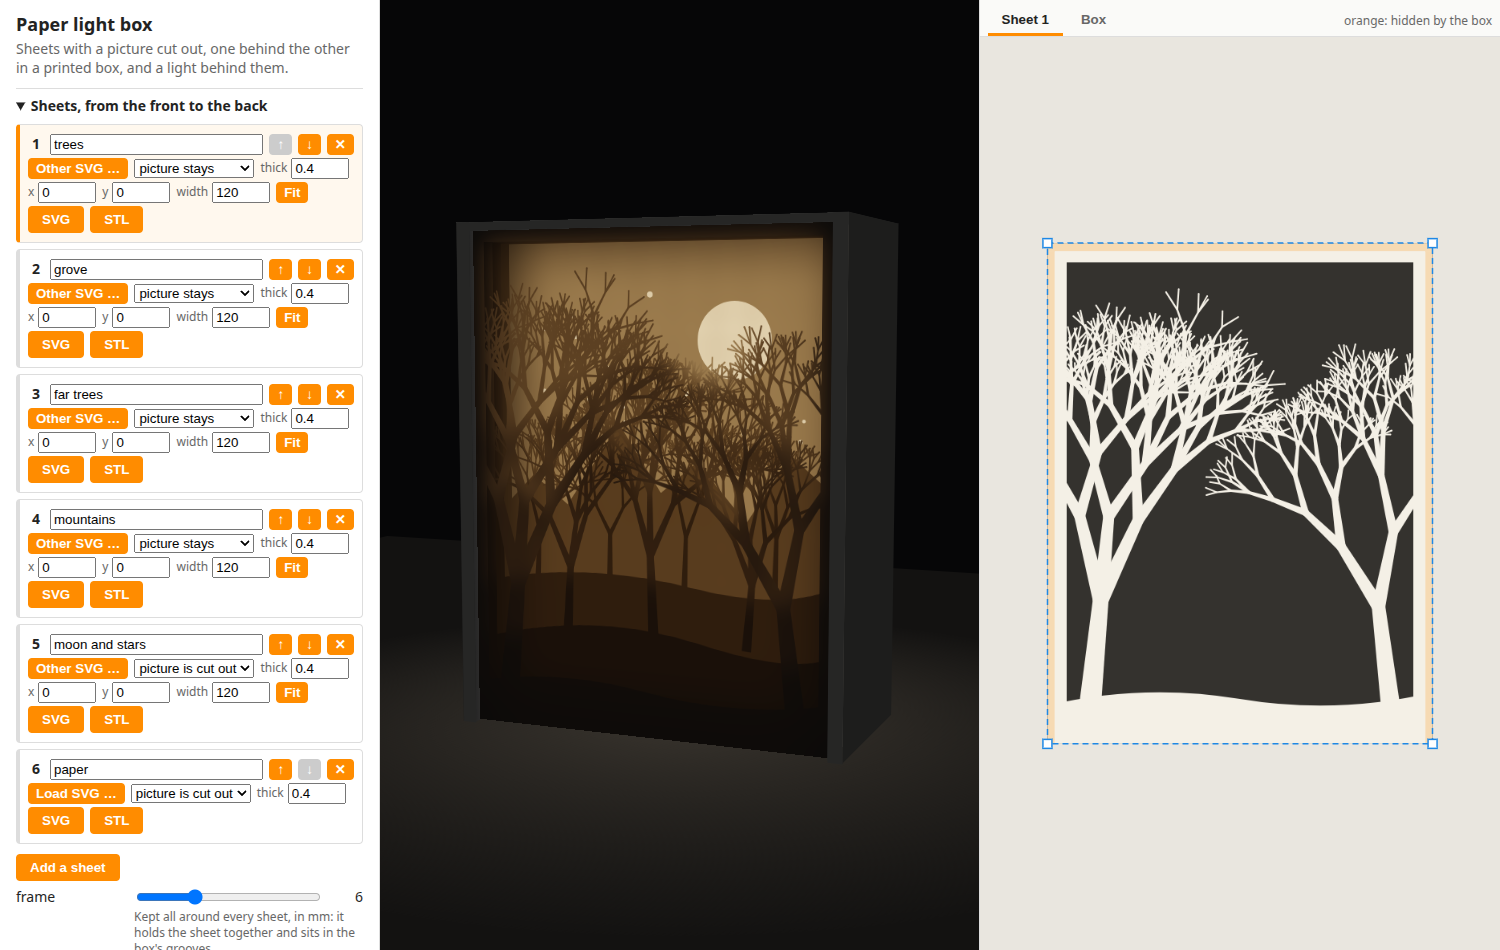
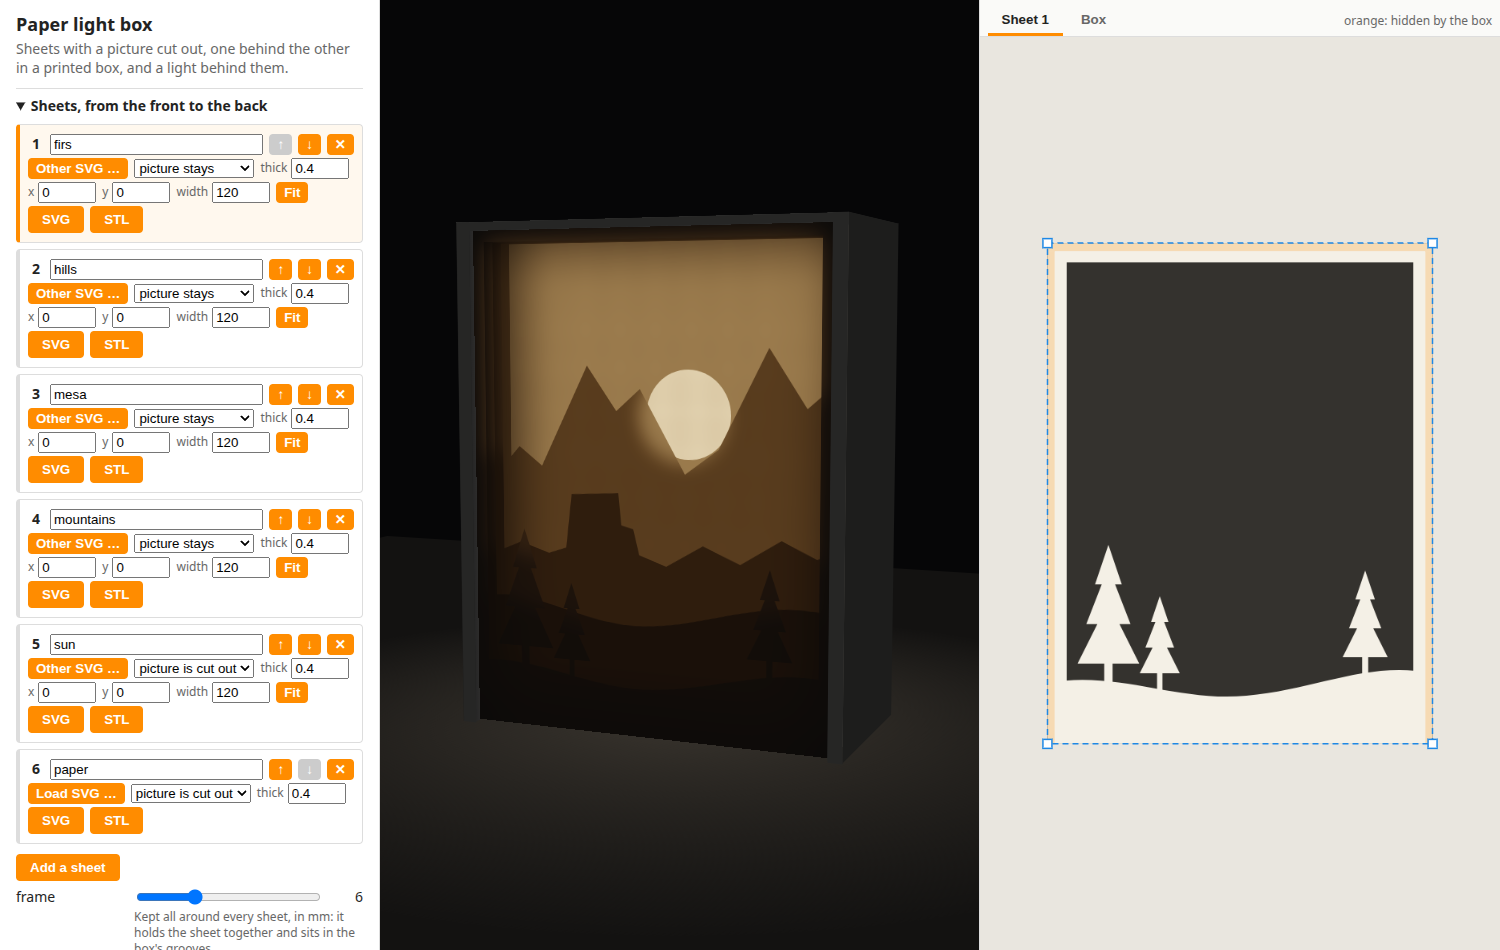
Paper light box webapp: a simpler picture to open with, mountains in front of a low sun instead of the forest of bare trees, after the pictures in inspiration/simple. Six sheets as before, from the front: three firs on a hill, hills, a mesa, mountains, a sun cut out, a plain sheet; each a frame with

diff --git a/projects/paper_light_box/webapp/demo.module.js b/projects/paper_light_box/webapp/demo.module.js
@@ -1,69 +1,40 @@
 // Copyright (C) [Jonas Immanuel Frey] - Licensed under GPL
-// The sheets the app opens with: a small forest drawn here, so that the preview shows
-// something before a picture is loaded. Each is an SVG 120 x 156, black on nothing,
-// as a loaded file would be.
-
-// The same numbers on every start: the forest does not change between two visits.
-let f_f_n__random = function(n_seed){
-    return function(){
-        n_seed = (n_seed * 16807) % 2147483647;
-        return n_seed / 2147483647;
-    };
-};
+// The sheets the app opens with: mountains in front of a low sun, drawn here, so that
+// the preview shows something before a picture is loaded. Each is an SVG 120 x 156,
+// black on nothing, as a loaded file would be. Kept simple: one outline per sheet.
 
 let f_s = function(n){ return String(Math.round(n * 100) / 100); };
-
-// A bare tree: a trunk that forks n_depth times, each branch a tapered bar with a round
-// end. No twig thinner than 0.5, which a 0.4 nozzle still prints.
-let f_s_svg__tree = function(f_n_random, n_x, n_y, n_angle, n_len, n_width, n_depth){
-    let a_s = [];
-    let f_branch = function(n_x, n_y, n_angle, n_len, n_width, n_depth){
-        let n_x2 = n_x + Math.cos(n_angle) * n_len, n_y2 = n_y + Math.sin(n_angle) * n_len;
-        let n_width2 = Math.max(n_width * 0.7, 0.5);
-        let n_nx = -Math.sin(n_angle) / 2, n_ny = Math.cos(n_angle) / 2;
-        a_s.push(`<polygon points="${f_s(n_x - n_nx * n_width)},${f_s(n_y - n_ny * n_width)} ${f_s(n_x + n_nx * n_width)},${f_s(n_y + n_ny * n_width)} `
-            + `${f_s(n_x2 + n_nx * n_width2)},${f_s(n_y2 + n_ny * n_width2)} ${f_s(n_x2 - n_nx * n_width2)},${f_s(n_y2 - n_ny * n_width2)}"/>`
-            + `<circle cx="${f_s(n_x2)}" cy="${f_s(n_y2)}" r="${f_s(n_width2 / 2)}"/>`);
-        if(n_depth <= 0){ return; }
-        let a_n_turn = [-0.25 - 0.35 * f_n_random(), 0.25 + 0.35 * f_n_random()];
-        if(f_n_random() < 0.35){ a_n_turn.push(0.3 * (f_n_random() - 0.5)); }
-        for(let n_turn of a_n_turn){
-            // every branch leans a little back to upright
-            let n_angle2 = (n_angle + n_turn) * 0.88 - Math.PI / 2 * 0.12;
-            f_branch(n_x2, n_y2, n_angle2, n_len * (0.64 + 0.18 * f_n_random()), n_width2, n_depth - 1);
-        }
-    };
-    f_branch(n_x, n_y, n_angle, n_len, n_width, n_depth);
-    return a_s.join('');
-};
 
 let f_s_svg = function(s_content){
     return `<svg xmlns="http://www.w3.org/2000/svg" viewBox="0 0 120 156" width="120" height="156">${s_content}</svg>`;
 };
 
+// A fir: three tiers from its tip down to n_y__crown, each wider than the one above, on
+// a trunk that goes on down to n_y__ground, into the hill it stands on.
+let f_s_svg__fir = function(n_x, n_y__tip, n_y__crown, n_y__ground){
+    let n_height = n_y__crown - n_y__tip;
+    let n_trunk = Math.max(0.035 * n_height, 0.8);
+    let a_a_n = [[0, n_y__tip]];
+    for(let n_tier = 1; n_tier <= 3; n_tier++){
+        let n_y = n_y__tip + n_height * n_tier / 3;
+        let n_wide = 0.26 * n_height * (0.15 + 0.85 * n_tier / 3);
+        a_a_n.push([n_wide, n_y], [n_tier < 3 ? n_wide * 0.5 : n_trunk, n_y]);
+    }
+    a_a_n.push([n_trunk, n_y__ground]);
+    // the right half, and the same mirrored back up to the tip
+    let a_a_n__left = a_a_n.slice(1).reverse().map(function([n_dx, n_y]){ return [-n_dx, n_y]; });
+    return `<polygon points="${[...a_a_n, ...a_a_n__left].map(function([n_dx, n_y]){ return `${f_s(n_x + n_dx)},${f_s(n_y)}`; }).join(' ')}"/>`;
+};
+
 // From the front to the back: s_mode solid keeps the picture, cut cuts it out of the sheet.
 let f_a_o_sheet__demo = function(){
-    let f_n_random = f_f_n__random(7);
-    let n_up = -Math.PI / 2;
-    let a_s_star = [];
-    while(a_s_star.length < 18){
-        let n_x = 10 + 100 * f_n_random(), n_y = 10 + 62 * f_n_random();
-        if(Math.hypot(n_x - 80, n_y - 36) > 17){ a_s_star.push(`<circle cx="${f_s(n_x)}" cy="${f_s(n_y)}" r="${f_s(0.5 + 0.5 * f_n_random())}"/>`); }
-    }
     return [
-        { s_name: 'trees', s_mode: 'solid', s_svg: f_s_svg('<path d="M0 156L0 144Q30 137 60 142T120 140L120 156Z"/>'
-            + f_s_svg__tree(f_n_random, 13, 147, n_up + 0.1, 36, 7, 7)
-            + f_s_svg__tree(f_n_random, 107, 145, n_up - 0.12, 32, 6, 7)) },
-        { s_name: 'grove', s_mode: 'solid', s_svg: f_s_svg('<path d="M0 156L0 131Q40 119 75 127T120 125L120 156Z"/>'
-            + f_s_svg__tree(f_n_random, 31, 128, n_up + 0.05, 22, 3.2, 6)
-            + f_s_svg__tree(f_n_random, 60, 126, n_up - 0.04, 25, 3.4, 6)
-            + f_s_svg__tree(f_n_random, 90, 128, n_up + 0.08, 20, 3, 6)) },
-        { s_name: 'far trees', s_mode: 'solid', s_svg: f_s_svg('<path d="M0 156L0 113Q35 105 70 111T120 105L120 156Z"/>'
-            + [18, 43, 68, 97].map(function(n_x, n_idx){
-                return f_s_svg__tree(f_n_random, n_x, 111 - (n_idx % 2) * 2, n_up + 0.1 * (f_n_random() - 0.5), 13 + 3 * f_n_random(), 1.9, 5);
-            }).join('')) },
-        { s_name: 'mountains', s_mode: 'solid', s_svg: f_s_svg('<polygon points="0,156 0,93 14,79 26,88 44,62 58,83 70,73 86,91 100,70 120,87 120,156"/>') },
-        { s_name: 'moon and stars', s_mode: 'cut', s_svg: f_s_svg('<circle cx="80" cy="36" r="12"/>' + a_s_star.join('')) },
+        { s_name: 'firs', s_mode: 'solid', s_svg: f_s_svg('<path d="M0 156V137C22 133 40 143 62 141S100 130 120 134V156Z"/>'
+            + f_s_svg__fir(19, 94, 131, 142) + f_s_svg__fir(35, 110, 134, 143) + f_s_svg__fir(99, 102, 129, 139)) },
+        { s_name: 'hills', s_mode: 'solid', s_svg: f_s_svg('<path d="M0 156V118C18 112 34 124 56 123S96 110 120 116V156Z"/>') },
+        { s_name: 'mesa', s_mode: 'solid', s_svg: f_s_svg('<polygon points="0,156 0,105 12,100 22,103 28,101 30,84 46,83 47,93 51,94 53,102 62,105 74,98 86,103 99,95 110,100 120,96 120,156"/>') },
+        { s_name: 'mountains', s_mode: 'solid', s_svg: f_s_svg('<polygon points="0,156 0,80 9,70 17,76 33,44 43,58 51,51 66,77 77,69 93,38 105,56 112,50 120,59 120,156"/>') },
+        { s_name: 'sun', s_mode: 'cut', s_svg: f_s_svg('<circle cx="65" cy="59" r="14"/>') },
         { s_name: 'paper', s_mode: 'cut', s_svg: '' }
     ];
 };

diff --git a/projects/paper_light_box/readme.md b/projects/paper_light_box/readme.md
@@ -21,8 +21,8 @@ A printed box with slits in its top; a sheet with a picture cut out slides into 
 | Start | `deno task start` in this folder, then http://127.0.0.1:8776 (another port: `deno task start 8777`) |
 | Needs | Deno; OpenSCAD: `$OPENSCAD`, else `.gitignored/tools/OpenSCAD-nightly.AppImage`, else `openscad` on the PATH |
 | Tests | `deno task test`: 16, of the outline tracing, the light model, the settings, and the server with OpenSCAD |
-| Opens with | a forest of six sheets drawn by the app, to have something lit; load own pictures over it |
-| Not kept | the sheets live in the page: a reload starts again with the forest |
+| Opens with | six sheets drawn by the app, to have something lit: three firs on a hill, hills, a mesa, mountains, a sun cut out, a plain sheet; load own pictures over it |
+| Not kept | the sheets live in the page: a reload starts again with the mountains |
 
 | Part of the page | Does |
 |---|---|
@@ -97,7 +97,7 @@ A printed box with slits in its top; a sheet with a picture cut out slides into 
 | Box, both lights, upright, wide (156 × 120), large (150 × 200), small (100 × 100), sheets of 0.15 to 1.2 at distance 12, puck 80 × 96 and 200 × 120 | one closed body each, no zero-area triangles, in OpenSCAD 2021.01 and in 2026.09.16 with lazy union and Manifold; volumes equal within 2 ppm (2021.01's STL is that much small) |
 | Puck plate 120 × 156, 80 × 96, 200 × 120 × 3, without logo | one closed body, the same volume in both builds. 2021.01's STL has 272 edges that meet at four digits where the thread runs out at the cavity's shoulder, exactly as the holder's own top part has; Manifold's has none |
 | Sliced, six sheets, the disc launcher's Elegoo Centauri Carbon 2 settings (0.2 mm, 2 walls, 15 %, classic) | board 123 g in 5 h 41 min; puck 104 g in 4 h 26 min and its plate 56 g in 1 h 15 min; no support; bridges 0.4 m per box, none in the plate; slits free 1.6 in the first layer, 1.0 in the second, 0.8 above |
-| Sheets from the app | the forest's front sheet: 347 outlines, 4596 points, STL one closed body, volume = the SVG's area × 0.4 in both OpenSCAD builds |
+| Sheets from the app | the six it opens with: no loose piece, the frame and one hole each (the plain one no hole), 8 to 135 points; STL one closed body, volume = the SVG's area × 0.4 in both OpenSCAD builds. Before them a forest of bare trees, its front sheet 347 outlines and 4596 points, the same result |
 | Page in headless Chrome | load, drag, corner, wheel, fit, order, add, remove, three loaded files (no viewBox, white background, not an SVG), both lights, wide and large sheets, all downloads, the plate in the 3D view |
 | Not checked | a print; a cut sheet; a real board in the box; a printed screwin in the plate; the lit preview against a real box; a touch screen; Firefox |
 
